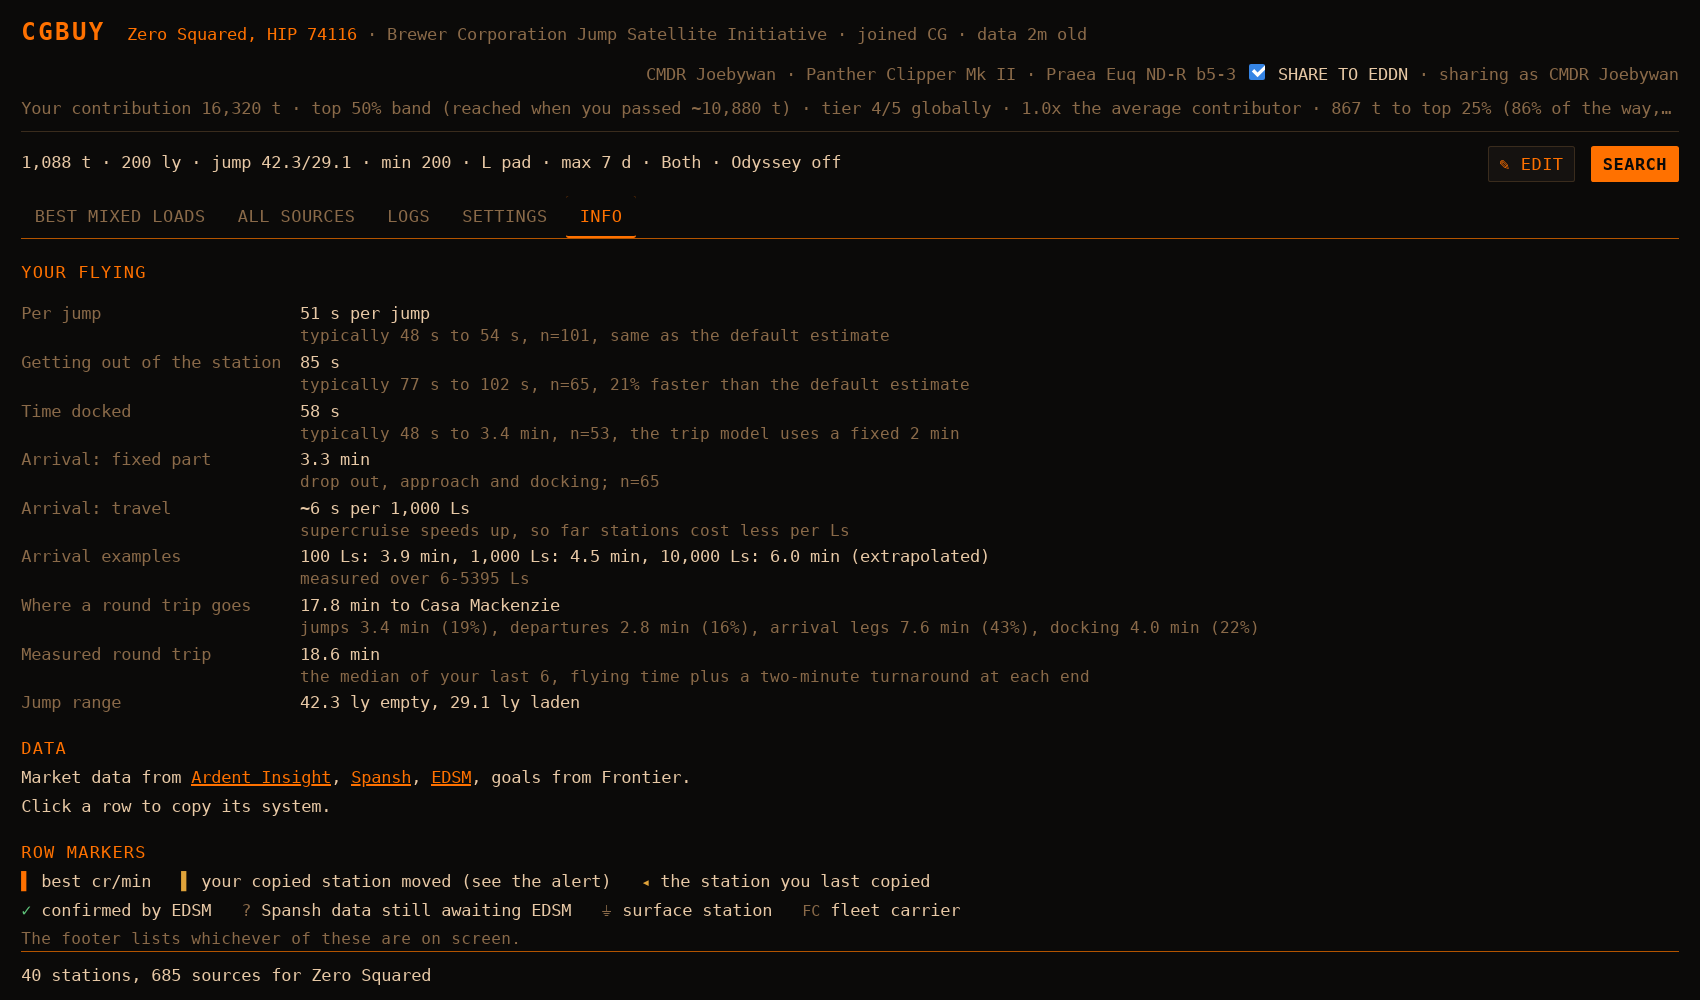
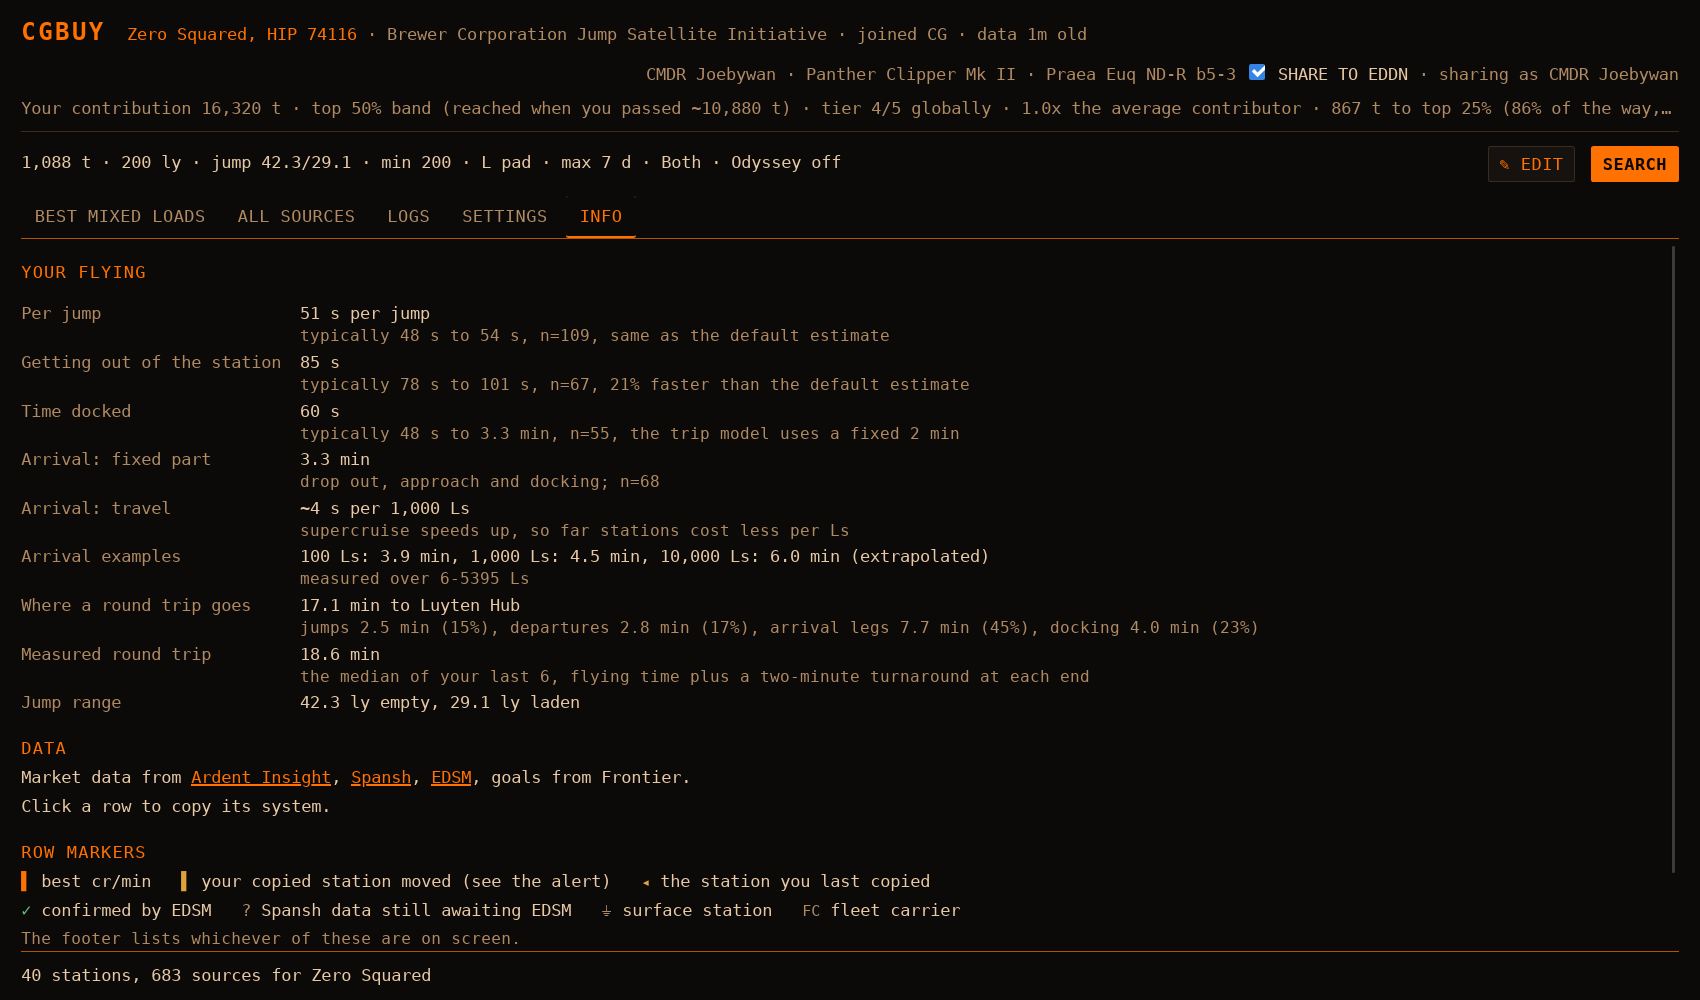
Raise dim text contrast to 6.3:1
--dim #8a6a49 was 4:1 on the background, below AA for the 12px help
text and hard to read. #b08a63 keeps it clearly secondary to --txt.
Screenshots retaken.

Changed region(s): [[0.2494, 0.589, 0.3118, 0.62], [0.6547, 0.062, 0.6859, 0.093]]

diff --git a/app/style.css b/app/style.css
@@ -7,7 +7,7 @@
   --or: #ff7100;
   --or-dim: #b35400;
   --txt: #e8c9a6;
-  --dim: #8a6a49;
+  --dim: #b08a63;   /* 6.3:1 on --bg; the old #8a6a49 was 4:1, hard to read at 12px */
   --line: #3a2c1d;
   --good: #5ec27a;
   --warn: #e0a33a;
